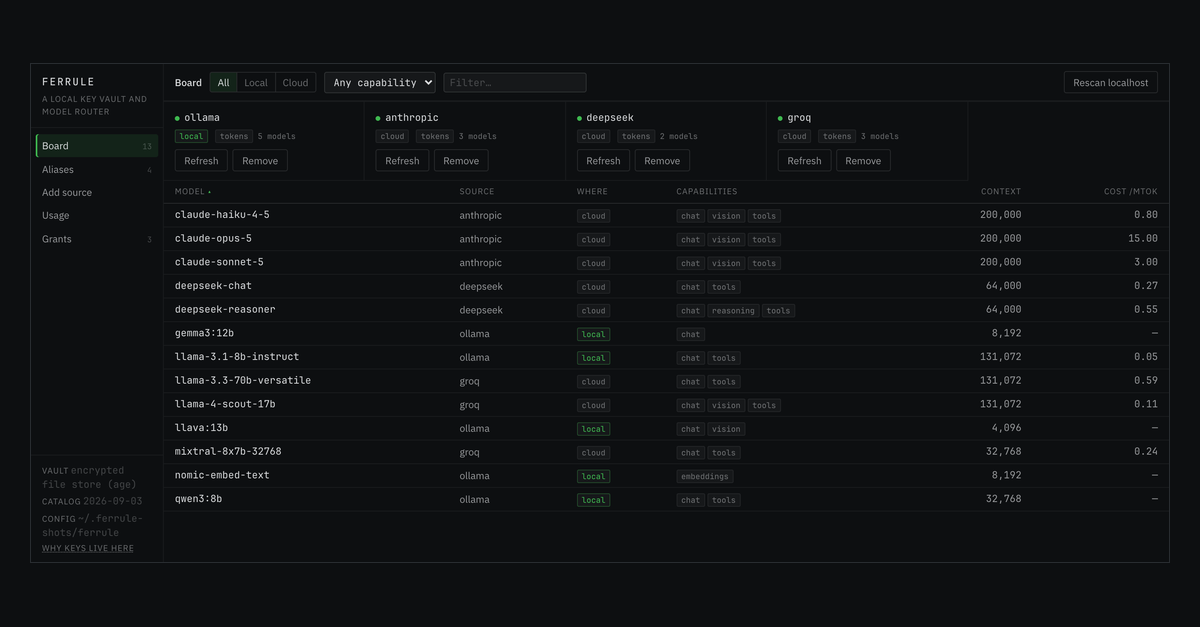
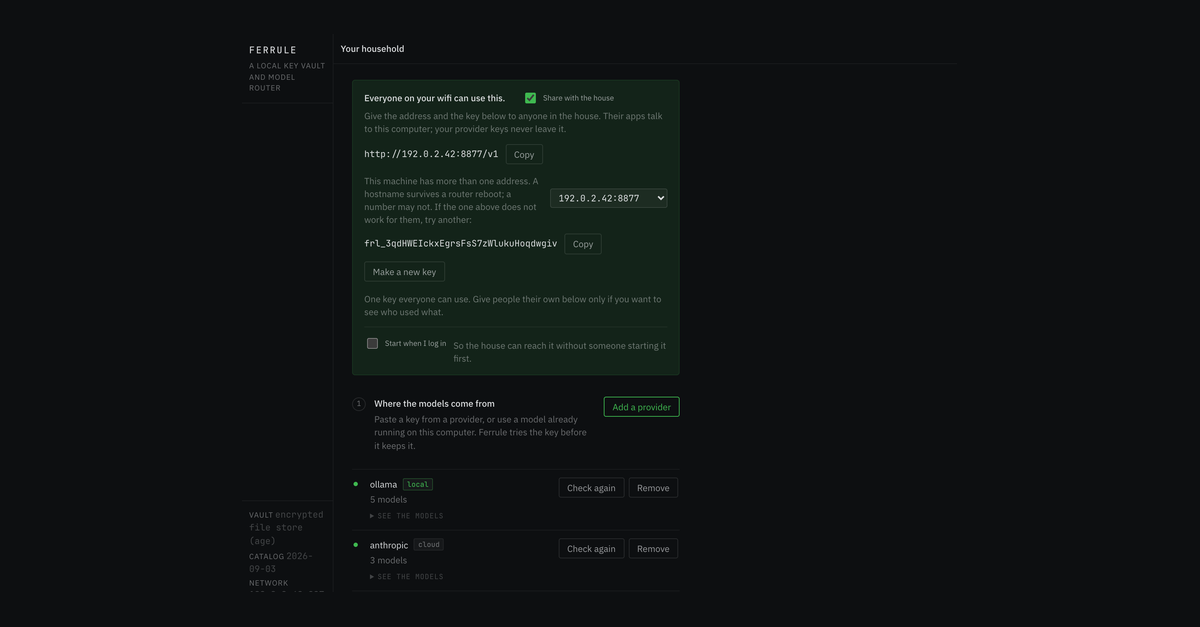
Launch gate: a hostname to hand out, and a key that survives the move
Two findings from packaging, both about somebody who is not me.

**The household key did not survive a move to another machine.** Export and
import are how a person moves Ferrule, and the one credential they have handed
out is the household key. `shared` was in neither the SELECT nor the INSERT, so
the imported grant landed unflagged. It worked — right until the next start. The
sweep that deletes vault entries nothing points at keeps a token only while a
live shared grant claims it, and nothing did. The configuration looked complete
and stopped working on the first restart. Asserted by exporting, importing, and
then reopening, which is the half that was broken.

**The address handed out was a number.** A home router hands out addresses by
DHCP, so the number in the panel is true until it is not, and then every person
in the house has a config pointing at nothing. `serve --advertise` takes a name
instead — a `.local` hostname does not move. It is offered first and the detected
addresses stay beneath it, because a name that does not resolve on someone's
phone is a worse failure than an IP.

Also from the gate: a robots.txt that refuses every crawler, since people tunnel
things and a personal control panel turning up in a search index is a worse
surprise than three lines of file.

The demo now binds the way the product binds and advertises a documentation
address (RFC 5737), so it shows what an install looks like and a screenshot of
it does not publish whoever took it.
[…]

diff --git a/internal/harness/closure_test.go b/internal/harness/closure_test.go
@@ -228,3 +228,67 @@ func TestOrphanedKeysAreSweptOnStartup(t *testing.T) {
 		t.Error("the orphan's ref is still in the encrypted store")
 	}
 }
+
+// Moving to a new machine is what export and import are for, and the household key is the
+// one credential a person hands out. It has to survive the move — and survive the first
+// restart afterwards, which is a different question.
+//
+// It did not. The export carried the grant and the sealed vault, but `shared` was in
+// neither the SELECT nor the INSERT, so the imported grant landed unflagged. The key
+// worked, right up until the next start: the sweep that deletes vault entries nothing
+// points at keeps a token only while a live shared grant claims it, and nothing did.
+func TestTheHouseholdKeySurvivesAMoveToAnotherMachine(t *testing.T) {
+	const pass = "a-passphrase-for-the-move"
+
+	from := newRig(t)
+	up := mock.New("", "qwen3:8b")
+	defer up.Close()
+	from.addLocal(t, "ollama", up)
+	original, token, err := from.app.HouseholdKey()
+	if err != nil {
+		t.Fatal(err)
+	}
+	if !original.Shared {
+		t.Fatal("the household key is not marked shared on the machine that made it")
+	}
+
+	file := filepath.Join(t.TempDir(), "ferrule-config.json")
+	if _, err := from.bus.Dispatch(context.Background(), "export_config",
+		api.Args{"path": file, "passphrase": pass}, api.DoorCLI, "test"); err != nil {
+		t.Fatal(err)
+	}
+
+	dir := t.TempDir()
+	to, err := app.Open(app.Options{Dir: dir})
+	if err != nil {
+		t.Fatal(err)
+	}
+	if _, err := api.NewBus(to).Dispatch(context.Background(), "import_config",
+		api.Args{"path": file, "passphrase": pass}, api.DoorCLI, "test"); err != nil {
+		t.Fatal(err)
+	}
+	moved, movedToken, err := to.HouseholdKey()
+	if err != nil {
+		t.Fatal(err)
+	}
+	if moved.ID != original.ID || movedToken != token {
+		t.Fatalf("the new machine invented a second household key: %s/%s, want %s",
+			moved.ID, moved.App, original.ID)
+	}
+	to.Close()
+
+	// The restart is the half that was broken. Opening the config again runs the sweep.
+	again, err := app.Open(app.Options{Dir: dir})
+	if err != nil {
+		t.Fatal(err)
+	}
+	defer again.Close()
+	after, afterToken, err := again.HouseholdKey()
+	if err != nil {
+		t.Fatal(err)
+	}
+	if afterToken != token {
+		t.Errorf("the household key did not survive the first restart after a move: "+
+			"grant %s now, %s before", after.ID, original.ID)
+	}
+}

diff --git a/internal/store/grant.go b/internal/store/grant.go
@@ -148,7 +148,7 @@ type PortableGrant struct {
 
 // ExportGrants returns every grant with its token hash.
 func (d *DB) ExportGrants() ([]PortableGrant, error) {
-	rows, err := d.sql.Query(`SELECT id,app,token_hash,created_at,revoked_at FROM grants ORDER BY created_at`)
+	rows, err := d.sql.Query(`SELECT id,app,token_hash,created_at,revoked_at,shared FROM grants ORDER BY created_at`)
 	if err != nil {
 		return nil, err
 	}
@@ -156,9 +156,11 @@ func (d *DB) ExportGrants() ([]PortableGrant, error) {
 	var out []PortableGrant
 	for rows.Next() {
 		var g PortableGrant
-		if err := rows.Scan(&g.ID, &g.App, &g.TokenHash, &g.CreatedAt, &g.RevokedAt); err != nil {
+		var shared int
+		if err := rows.Scan(&g.ID, &g.App, &g.TokenHash, &g.CreatedAt, &g.RevokedAt, &shared); err != nil {
 			return nil, err
 		}
+		g.Shared = shared != 0
 		out = append(out, g)
 	}
 	return out, rows.Err()
@@ -170,10 +172,17 @@ func (d *DB) ImportGrants(gs []PortableGrant) error {
 		if g.ID == "" || g.TokenHash == "" {
 			continue
 		}
+		// `shared` has to survive the round trip, and not because of a flag in a list.
+		// The household token lives in the vault under this grant's id, and the startup
+		// sweep keeps a vault entry only when a live shared grant points at it — so an
+		// import that lost the flag left the imported key in the vault until the next
+		// start, and then deleted it. The configuration looked complete and stopped
+		// working on the first restart.
 		if _, err := d.sql.Exec(`
-INSERT INTO grants (id,app,token_hash,created_at,revoked_at) VALUES (?,?,?,?,?)
-ON CONFLICT(id) DO UPDATE SET app=excluded.app, revoked_at=excluded.revoked_at`,
-			g.ID, g.App, g.TokenHash, g.CreatedAt, g.RevokedAt); err != nil {
+INSERT INTO grants (id,app,token_hash,created_at,revoked_at,shared) VALUES (?,?,?,?,?,?)
+ON CONFLICT(id) DO UPDATE SET app=excluded.app, revoked_at=excluded.revoked_at,
+  shared=excluded.shared`,
+			g.ID, g.App, g.TokenHash, g.CreatedAt, g.RevokedAt, boolInt(g.Shared)); err != nil {
 			return err
 		}
 	}

diff --git a/internal/server/server.go b/internal/server/server.go
@@ -32,13 +32,22 @@ type Options struct {
 	// Binding narrowly is still available and still absolute: --host 127.0.0.1 closes
 	// the port to the network entirely, and no setting can reopen it.
 	Addr string
+	// Advertise is the address handed out instead of a detected one — a hostname, most
+	// usefully. A home network hands out addresses by DHCP, so the number in the panel is
+	// true until the router feels otherwise, and then every person in the house has a
+	// config pointing at nothing. A name like `mac-mini.local:8899` does not move.
+	//
+	// It is offered first and the detected addresses stay available beneath it, because a
+	// name that does not resolve on someone's phone is a worse failure than an IP.
+	Advertise string
 }
 
 // Server is the running daemon.
 type Server struct {
-	app  *app.App
-	http *http.Server
-	ln   net.Listener
+	app       *app.App
+	http      *http.Server
+	ln        net.Listener
+	advertise string
 }
 
 // New builds the daemon, binding the listener so the caller learns the real address
@@ -65,7 +74,7 @@ func New(a *app.App, o Options) (*Server, error) {
 
 	mux := http.NewServeMux()
 	control := api.New(a)
-	srv := &Server{app: a, ln: ln}
+	srv := &Server{app: a, ln: ln, advertise: o.Advertise}
 	control.SetLANEndpoints(srv.LANEndpoints())
 	control.SetLANEndpoint(srv.LANEndpoint())
 	router.New(a.DB, a.Vault).Mount(mux)
@@ -102,10 +111,21 @@ func (s *Server) LANEndpoints() []string {
 		return []string{net.JoinHostPort(bound, port)}
 	}
 	out := make([]string, 0, 4)
+	if s.advertise != "" {
+		out = append(out, withPort(s.advertise, port))
+	}
 	for _, host := range hostAddrs() {
 		out = append(out, net.JoinHostPort(host, port))
 	}
 	return out
+}
+
+// withPort leaves an advertised address alone if it already names one.
+func withPort(addr, port string) string {
+	if _, _, err := net.SplitHostPort(addr); err == nil {
+		return addr
+	}
+	return net.JoinHostPort(addr, port)
 }
 
 // hostAddrs lists this machine's IPv4 addresses, in the order most likely to be the one

diff --git a/internal/ui/ui.go b/internal/ui/ui.go
@@ -8,6 +8,7 @@ import (
 	"embed"
 	"encoding/json"
 	"html"
+	"io"
 	"io/fs"
 	"net/http"
 	"strings"
@@ -31,6 +32,7 @@ func Mount(mux *http.ServeMux, controlToken string) {
 	files := http.FileServer(http.FS(sub))
 
 	mux.HandleFunc("/llms.txt", serveLLMs)
+	mux.HandleFunc("/robots.txt", serveRobots)
 	mux.HandleFunc("/ui/strings.json", serveStrings)
 	mux.HandleFunc("/ui/providers.json", serveProviders)
 	mux.Handle("/ui/", cache(http.StripPrefix("/ui/", files)))
@@ -76,6 +78,15 @@ var llms []byte
 
 // serveLLMs is the docs' agent face, served by the running daemon so an agent pointed at
 // a live Ferrule gets the surface without being pointed at the repo.
+// serveRobots refuses every crawler. Ferrule is a personal control panel and is normally
+// reachable only from the machine it runs on — but people tunnel things, and a panel that
+// turns up in a search index is a worse surprise than three lines of file.
+func serveRobots(w http.ResponseWriter, _ *http.Request) {
+	w.Header().Set("Content-Type", "text/plain; charset=utf-8")
+	w.Header().Set("X-Robots-Tag", "noindex, nofollow")
+	_, _ = io.WriteString(w, "User-agent: *\nDisallow: /\n")
+}
+
 func serveLLMs(w http.ResponseWriter, r *http.Request) {
 	w.Header().Set("Content-Type", "text/plain; charset=utf-8")
 	w.Header().Set("Cache-Control", "no-cache")

diff --git a/cmd/ferrule/cmd_serve.go b/cmd/ferrule/cmd_serve.go
@@ -42,6 +42,7 @@ func cmdServe(args []string) error {
 	host := fs.String("host", "0.0.0.0", "address to bind; use 127.0.0.1 to close the port to the network entirely")
 	passphrase := fs.Bool("passphrase", false, "prompt for a passphrase to unlock the vault, so nothing that can open it is written to disk")
 	noDetect := fs.Bool("no-detect", false, "skip the startup scan for local runtimes")
+	advertise := fs.String("advertise", "", "the address to hand out instead of a detected one — a hostname survives DHCP, an address does not")
 	if err := fs.Parse(args); err != nil {
 		return err
 	}
@@ -61,7 +62,9 @@ func cmdServe(args []string) error {
 	}
 	defer a.Close()
 
-	srv, err := server.New(a, server.Options{Addr: fmt.Sprintf("%s:%d", *host, *port)})
+	srv, err := server.New(a, server.Options{
+		Addr: fmt.Sprintf("%s:%d", *host, *port), Advertise: *advertise,
+	})
 	if err != nil {
 		// A login item and a double-clicked app both want to make sure Ferrule is
 		// running, and both are right when it already is. Treating "another Ferrule has

diff --git a/cmd/ferrule-demo/main.go b/cmd/ferrule-demo/main.go
@@ -151,7 +151,15 @@ func run(dir string, port, traffic int, clean bool) error {
 		return err
 	}
 
-	srv, err := server.New(a, server.Options{Addr: fmt.Sprintf("127.0.0.1:%d", port)})
+	// Bound the way the product binds, so what the demo shows is what an install
+	// looks like — including the address and household key a person hands out. A
+	// loopback-only demo shows the one state a real install is almost never in.
+	srv, err := server.New(a, server.Options{
+		Addr: fmt.Sprintf("0.0.0.0:%d", port),
+		// A documentation address (RFC 5737), so a screenshot of the demo does not
+		// publish whoever took it.
+		Advertise: fmt.Sprintf("192.0.2.42:%d", port),
+	})
 	if err != nil {
 		return err
 	}
